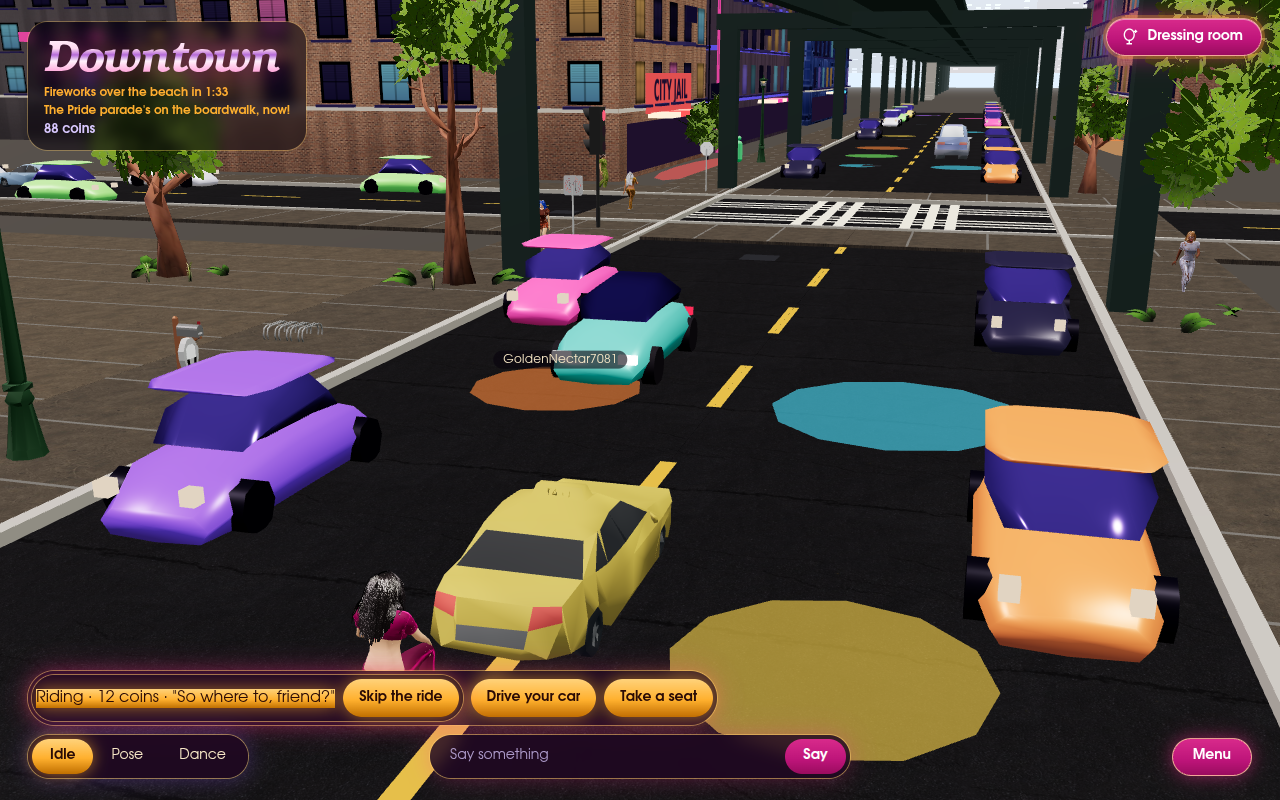
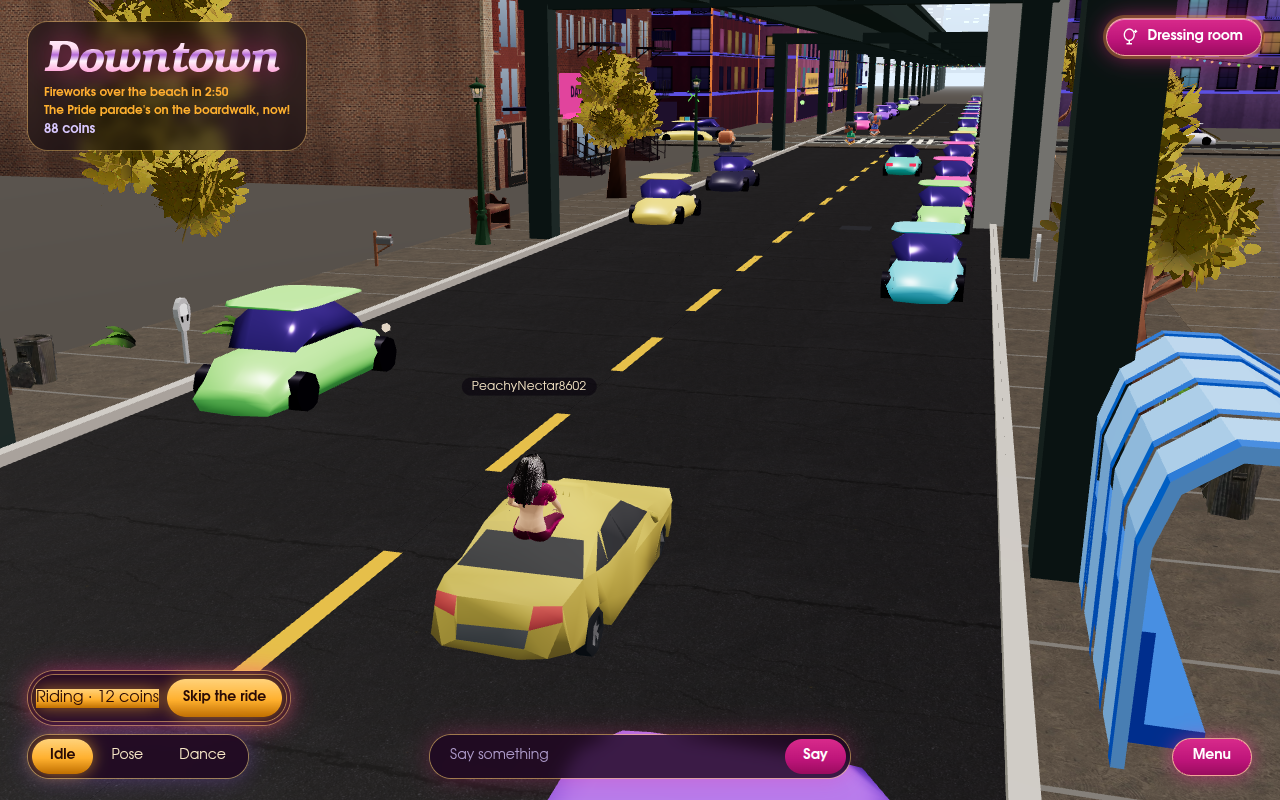
wip(taxi): saved mid-task (agent session ended)

diff --git a/src/client/city/TaxiRide.tsx b/src/client/city/TaxiRide.tsx
@@ -24,7 +24,8 @@ import { driverSays, resetTaxiRide, taxiCab, taxiRide } from "./taxiStore.ts";
 const BOARD_RANGE = 24;
 /** The cab's traffic id: 1 mod 4 draws the taxi model (Traffic.tsx). */
 const CAB_ID = 401;
-/** Where in the cab she sits: meters behind its center, and how high. */
+/** Where in the cab she sits: meters behind its center. She sits low, so the
+ * roof hides all but her head and shoulders. */
 const BACK_SEAT = 0.9;
 
 export function TaxiRide({ player }: { player: Player }) {
@@ -159,7 +160,7 @@ export function TaxiRide({ player }: { player: Player }) {
         player.before.pos = carried;
         player.pos.set(x, 0, z);
         player.acc = 0;
-        seat.position.set(x, 0.55, z);
+        seat.position.set(x, 0.2, z);
         seat.yaw = pose.yaw + Math.PI / 2;
         eye.set(pose.x - dx * 11 - dz * 4, 5.5, pose.z - dz * 11 + dx * 4);
         aim.set(pose.x + dx * 3, 1.4, pose.z + dz * 3);
